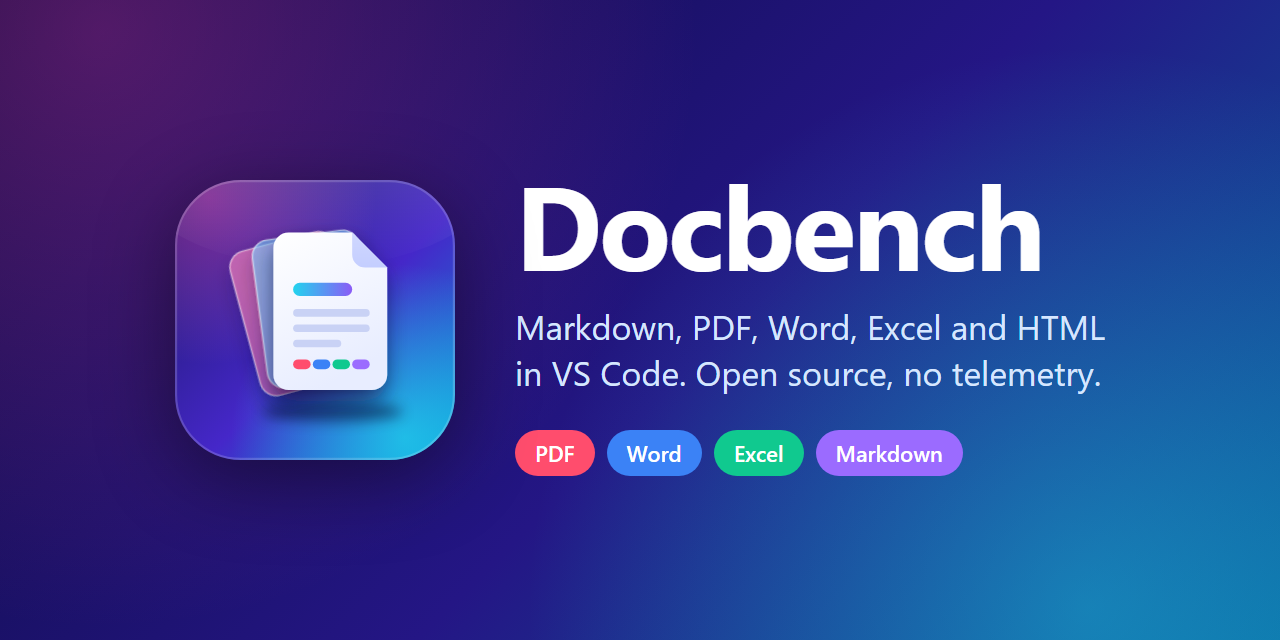
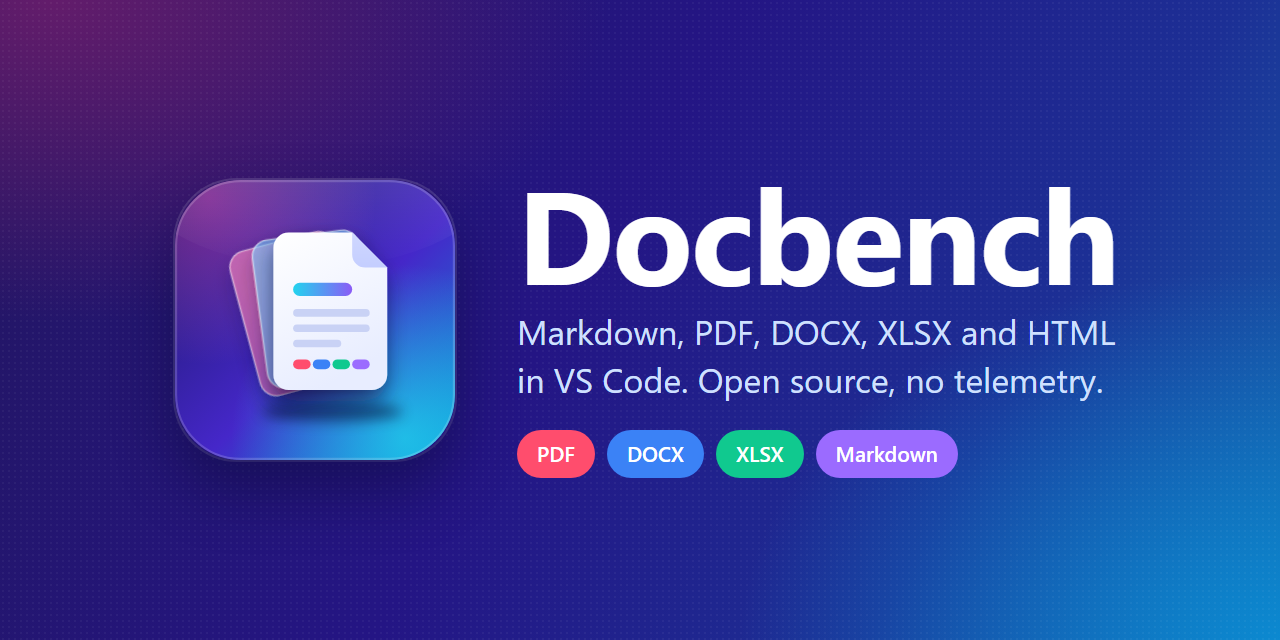
Release v0.6.3

diff --git a/assets/README.md b/assets/README.md
@@ -8,14 +8,14 @@
 
 ## The design
 
-A stack of translucent glass pages on a deep indigo-to-cyan tile: the pink and blue pages behind are the other formats, and the crisp front page carries a heading pill, text lines and a four-colour bar for the types Docbench opens: PDF (red), Word (blue), Excel (green) and Markdown (violet). Soft pink and cyan glows, a subtle top sheen and a glass rim give it depth. The shapes stay legible down to 16 x 16 px.
+A stack of translucent glass pages on a deep indigo-to-cyan tile: the pink and blue pages behind are the other formats, and the crisp front page carries a heading pill, text lines and a four-colour bar for the types Docbench opens: PDF (red), DOCX (blue), XLSX (green) and Markdown (violet). Soft pink and cyan glows, a subtle top sheen and a glass rim give it depth. The shapes stay legible down to 16 x 16 px.
 
 | Role | Colour |
 |---|---|
 | Tile gradient | `#1A1763` to `#4527C9` to `#0A8FD6` |
 | Glows | pink `#FF3FBF` (top left), cyan `#22E5F2` (bottom right) |
 | Heading pill | `#22D3EE` to `#8B5CF6` |
-| PDF / Word / Excel / Markdown bar | `#FF4D6D` / `#3B82F6` / `#10C98F` / `#9B6BFF` |
+| PDF / DOCX / XLSX / Markdown bar | `#FF4D6D` / `#3B82F6` / `#10C98F` / `#9B6BFF` |
 
 ## Regenerating the PNGs
 

diff --git a/CHANGELOG.md b/CHANGELOG.md
@@ -1,5 +1,10 @@
 # Changelog
 
+## 0.6.3
+
+### Changed
+- Repository banner image updated to name file types by extension. No change to the extension itself.
+
 ## 0.6.2
 
 ### Changed
